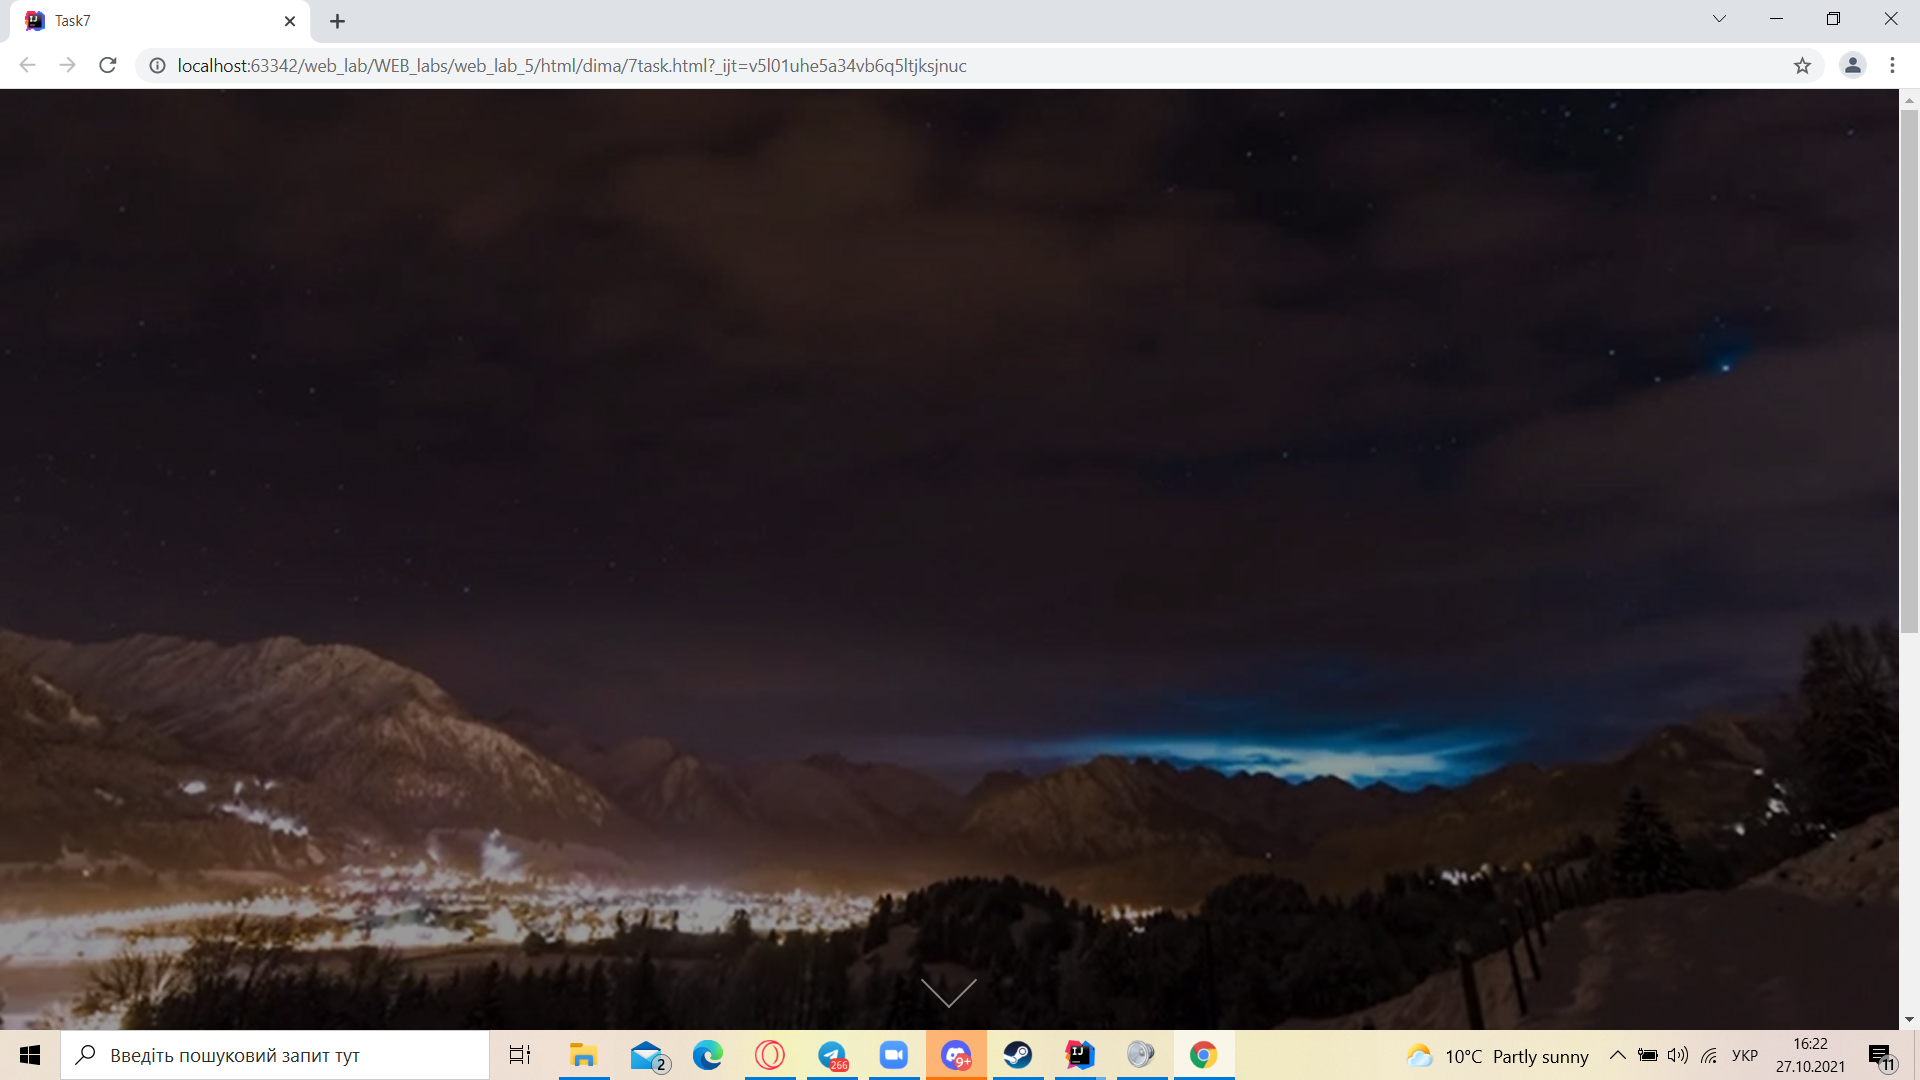
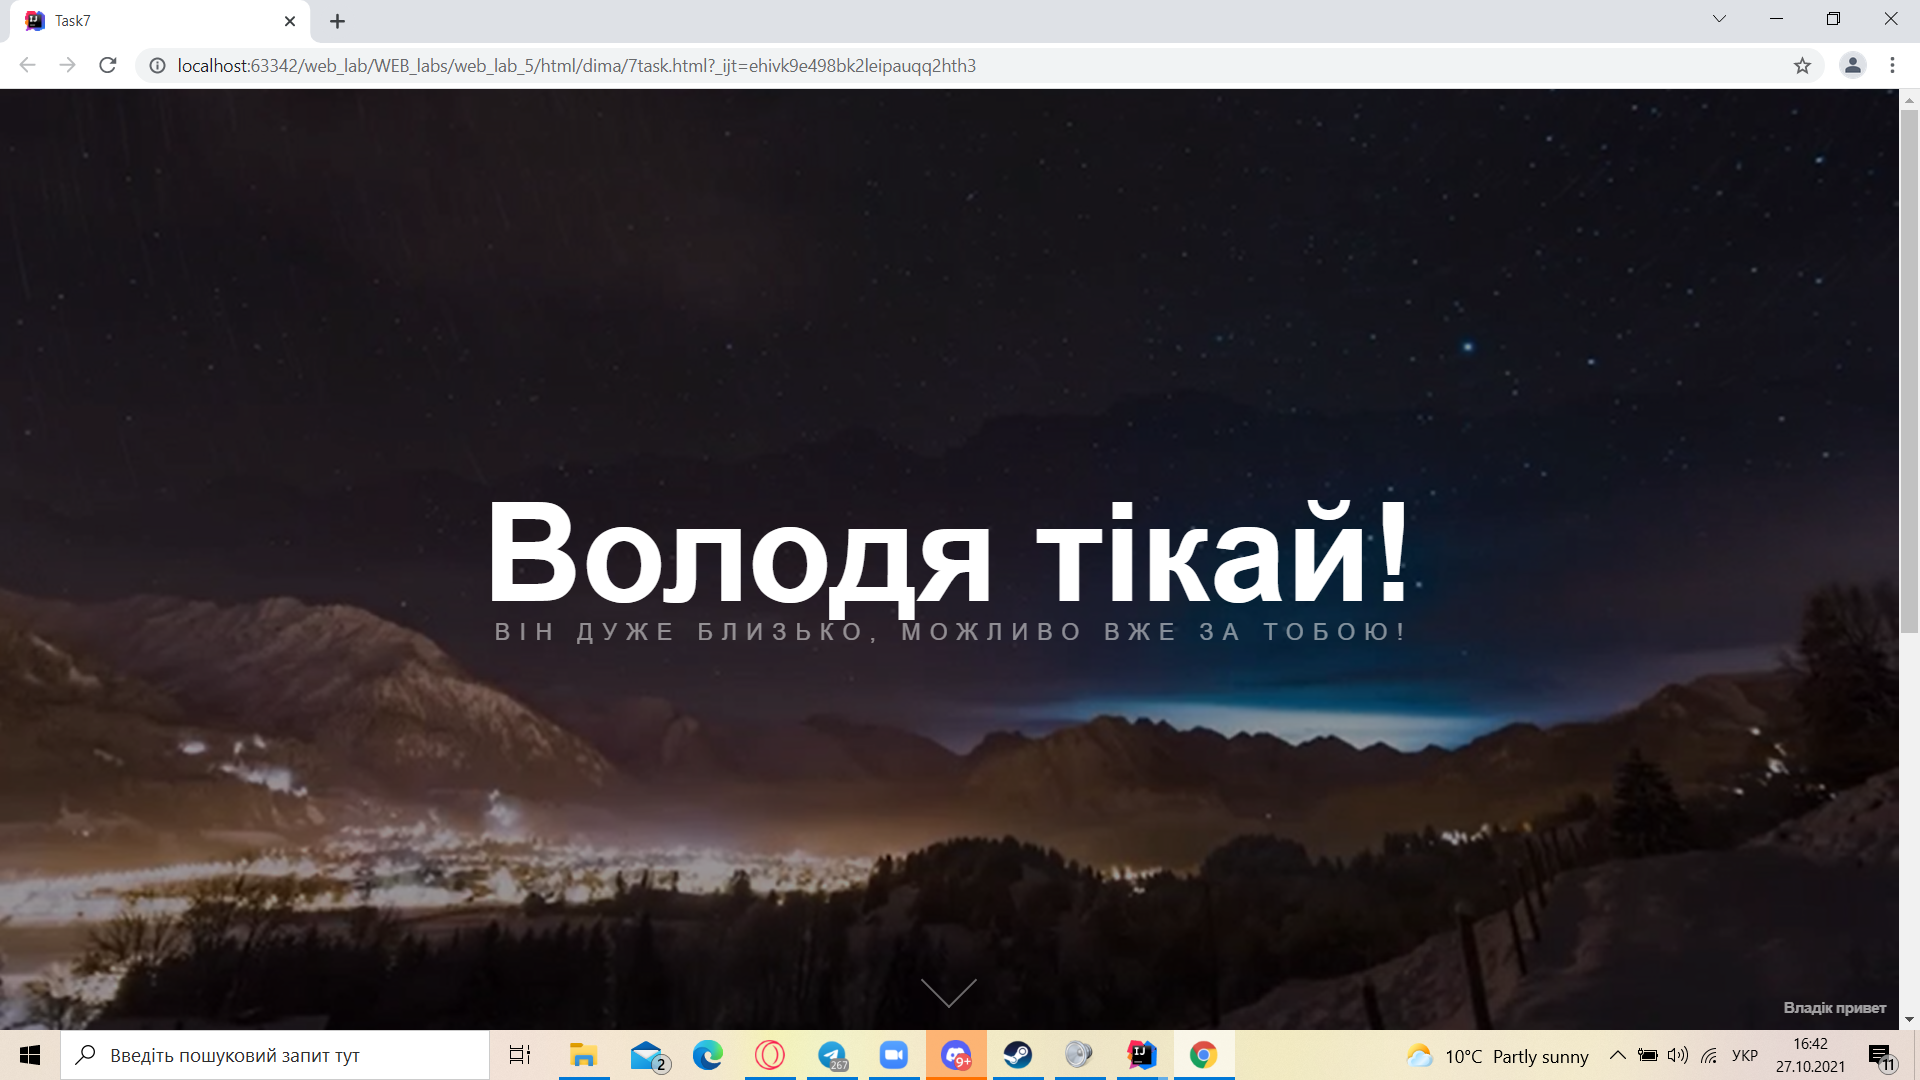
dima done laba5, fix sho to tam, teper all beatiful

diff --git a/web_lab_5/html/dima/7task.html b/web_lab_5/html/dima/7task.html
@@ -18,7 +18,9 @@
     </video>
     <div class="masthead-overlay"></div>
     <div class="masthead-arrow"></div>
+    <h1>Володя тікай!<span>Він дуже близько, можливо вже за тобою!</span></h1>
     <a class="masthead-video-credit" href="http://vimeo.com/82495711" target="_blank">
+        <span>Владік привет</span>
     </a>
 </section>
 <section class="content">
